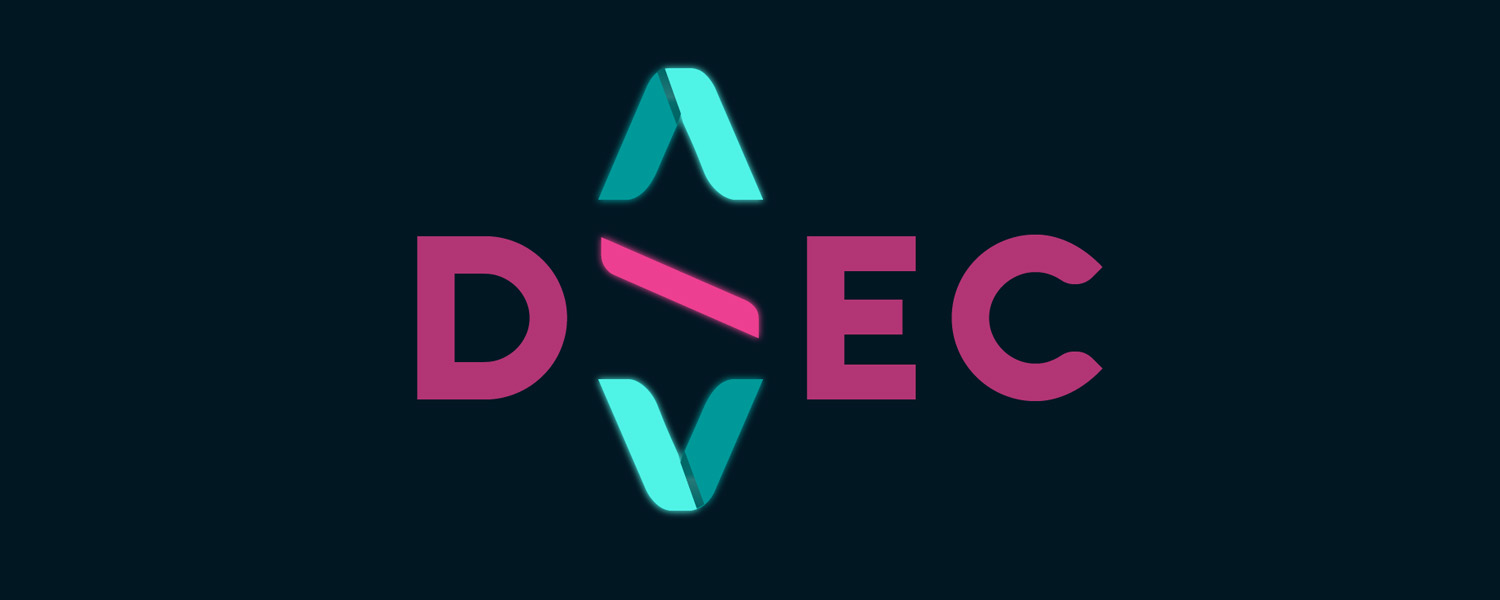
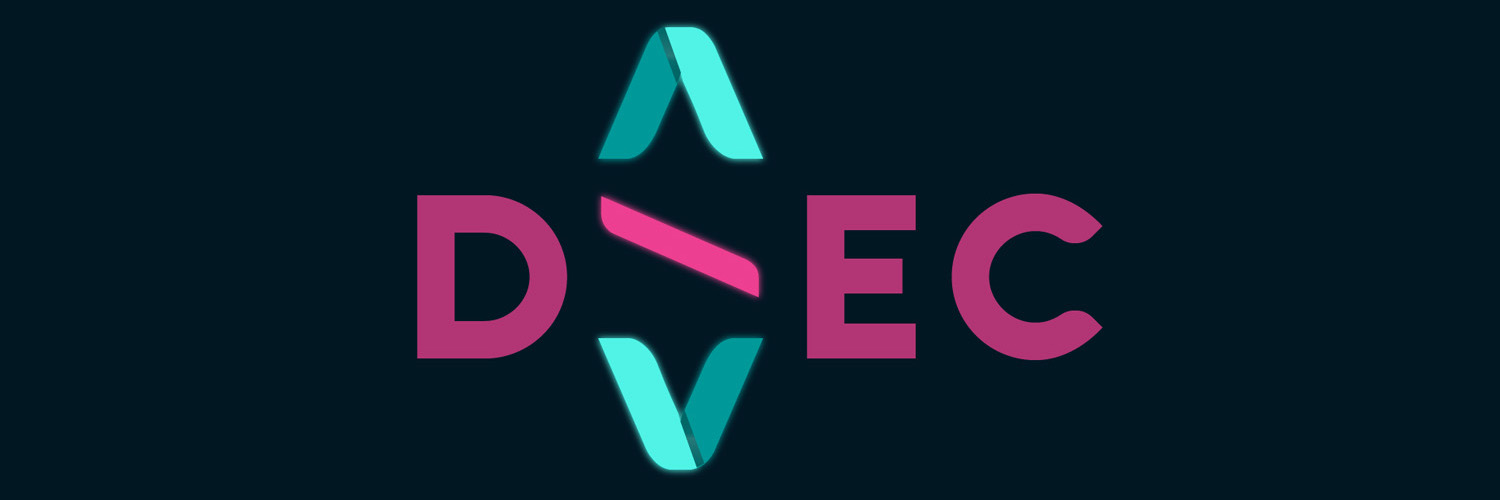
home page content added, hero image tweaked

diff --git a/index.html b/index.html
@@ -32,7 +32,7 @@
 
     <!-- Text section -->
     <section class="container about">
-      <p>Pellentesque habitant morbi tristique senectus et netus et malesuada fames ac turpis egestas. Vestibulum tortor quam, feugiat vitae, ultricies eget, tempor sit amet, ante. Donec eu libero sit amet quam egestas semper. Aenean ultricies mi vitae est. Mauris placerat eleifend leo.</p>
+      <p>The Deakin Software Engineering club is home to students from many backgrounds interested in software engineering, information systems, technology and associated disciplines. The DSEC community is about both fun and learning, with members collaborating on anything from coding problems to practical projects. DSEC coordinates with industry to represent the interests of members.</p>
       <p>Sed ut perspiciatis unde omnis iste natus error sit voluptatem accusantium doloremque laudantium, totam rem aperiam, eaque ipsa quae ab illo inventore veritatis et quasi architecto beatae vitae dicta sunt explicabo. Nemo enim ipsam voluptatem quia voluptas sit aspernatur aut odit aut fugit, sed quia consequuntur magni dolores eos qui ratione voluptatem sequi nesciunt. Neque porro quisquam est, qui dolorem ipsum quia dolor sit amet, consectetur, adipisci velit, sed quia non numquam eius modi tempora incidunt ut labore et dolore magnam aliquam quaerat voluptatem. Ut enim ad minima veniam, quis nostrum exercitationem ullam corporis suscipit laboriosam, nisi ut aliquid ex ea commodi consequatur? Quis autem vel eum iure reprehenderit qui in ea voluptate velit esse quam nihil molestiae consequatur, vel illum qui dolorem eum fugiat quo voluptas nulla pariatur?</p>
       <div class="btn-wrap">
         <a class="btn" href="join.html">Join</a>
@@ -45,12 +45,13 @@
     </section>
 
     <section class="container group" id="leadership">
+
       <div class="profile group">
         <div class="member-img">
-          <img src="assets/images/people/sample.png" alt="Firstname Lastname">
+          <img src="assets/images/people/jocen.jpeg" alt="President - Jocen Pagayona">
         </div>
         <div class="member-info">
-          <h4>Firstname Lastname</h4>
+          <h4>Jocen Pagayona</h4>
           <h5>President</h5>
           <p>Donec fiingilla blandit ultricies. Fusce Sollicitudin risus: vel aliquci neque metus vel felis scelerisque non scelerisque odio pellentesque. Lorem ipsum dolor sit amet, consectetur adipiscing elit. Donec hendren't tincidunt tellus a lobom's.</p>
         </div>
@@ -58,10 +59,10 @@
 
       <div class="profile group">
         <div class="member-img">
-          <img src="assets/images/people/sample.png" alt="Firstname Lastname">
+          <img src="assets/images/people/peter.jpeg" alt="Secretary - Peter Graeson">
         </div>
         <div class="member-info">
-          <h4>Firstname Lastname</h4>
+          <h4>Peter Graeson</h4>
           <h5>Secretary</h5>
           <p>Donec fiingilla blandit ultricies. Fusce Sollicitudin risus: vel aliquci neque metus vel felis scelerisque non scelerisque odio pellentesque. Lorem ipsum dolor sit amet, consectetur adipiscing elit. Donec hendren't tincidunt tellus a lobom's.</p>
         </div>
@@ -69,33 +70,35 @@
 
       <div class="profile group">
         <div class="member-img">
-          <img src="assets/images/people/sample.png" alt="Firstname Lastname">
+          <img src="assets/images/people/phil.png" alt="Tresurer - Philip Castiglione">
         </div>
         <div class="member-info">
-          <h4>Firstname Lastname</h4>
-          <h5>Board Member</h5>
-          <p>Donec fiingilla blandit ultricies. Fusce Sollicitudin risus: vel aliquci neque metus vel felis scelerisque non scelerisque odio pellentesque. Lorem ipsum dolor sit amet, consectetur adipiscing elit. Donec hendren't tincidunt tellus a lobom's.</p>
+          <h4>Philip Castiglione</h4>
+          <h5>Treasurer</h5>
+          <p>Software Engineer by day, BCompSc student by night, Philip works on systems that use technology to solve hard problems, at scale. Philip has a BCom (Finance) and worked as a Management Consultant in a previous life.</p>
         </div>
       </div>
 
       <div class="profile group">
         <div class="member-img">
-          <img src="assets/images/people/sample.png" alt="Firstname Lastname">
+          <img src="assets/images/people/jake.jpg" alt="Board Member - Jake Renzella">
         </div>
         <div class="member-info">
-          <h4>Firstname Lastname</h4>
+          <h4>Jake Renzella</h4>
           <h5>Board Member</h5>
           <p>Donec fiingilla blandit ultricies. Fusce Sollicitudin risus: vel aliquci neque metus vel felis scelerisque non scelerisque odio pellentesque. Lorem ipsum dolor sit amet, consectetur adipiscing elit. Donec hendren't tincidunt tellus a lobom's.</p>
         </div>
       </div>
+
     </section>
 
     <!-- Sponsors section -->
     <section class="sponsors">
       <h3>Sponsors</h3>
-      <p>Interested in sponsoring? Pellentesque habitant morbi tristique senectus et netus et malesuada fames ac turpis egestas. Vestibulum tortor quam, feugiat vitae, ultricies eget, tempor sit amet, ante. Donec eu libero sit amet quam egestas semper. Aenean ultricies mi vitae est. Mauris placerat eleifend leo.</p>
+      <p>Interested in sponsoring?</p>
+      <p>DSEC works with sponsors who promote the ethical and effective use of technology in business, consumer and government spaces. DSEC connects the brightest minds in technology at Deakin with companies looking to make a positive impact on the world.</p>
       <div class="btn-wrap">
-        <a class="btn btn-alt" href="contact.html">Contact</a>
+        <a class="btn btn-alt" href="contact.html">Get in touch</a>
       </div>
     </section>
 
@@ -103,9 +106,9 @@
     <footer class="group">
       <p>DSEC &copy 2018</p>
       <div class="social-icons">
-        <a href=""><img target="_blank" src="assets/images/social/facebook.png" alt="DSEC on Facebook"></a>
-        <a href=""><img target="_blank" src="assets/images/social/linkedin.png" alt="DSEC on LinkedIn"></a>
-        <a href=""><img target="_blank" src="assets/images/social/stack-ex.png" alt="DSEC on Stack Exchange"></a>
+        <a href="" target="_blank"><img src="assets/images/social/facebook.png" alt="DSEC on Facebook"></a>
+        <a href="" target="_blank"><img src="assets/images/social/linkedin.png" alt="DSEC on LinkedIn"></a>
+        <a href="" target="_blank"><img src="assets/images/social/stack-ex.png" alt="DSEC on Stack Exchange"></a>
         <br/>
       </div>    
     </footer>

diff --git a/assets/stylesheets/index.css b/assets/stylesheets/index.css
@@ -41,7 +41,7 @@
 
 .hero {
   background: #021723 url("../images/dsec-hero.jpg") 50% no-repeat;
-  background-size: cover;
+  background-size: contain;
   height: 60vh;
   text-align: center;
   display: -webkit-flex;
@@ -58,7 +58,7 @@
 .hero-text h1 {
   color: #EDEDED;
   text-shadow: 2px 2px 4px #0a0a0a;
-  font-size: 40px;
+  font-size: 48px;
 }
 
 .about {
@@ -78,6 +78,12 @@
   float: left;
 }
 
+.member-img img {
+  height: 100px;
+  width: 100px;
+  border-radius: 50px;
+}
+
 .member-info {
   float: right;
   width: 85%;
@@ -90,6 +96,7 @@
 }
 
 .sponsors p {
+  text-align: center;
   margin: 12px 28px;
 }
 
